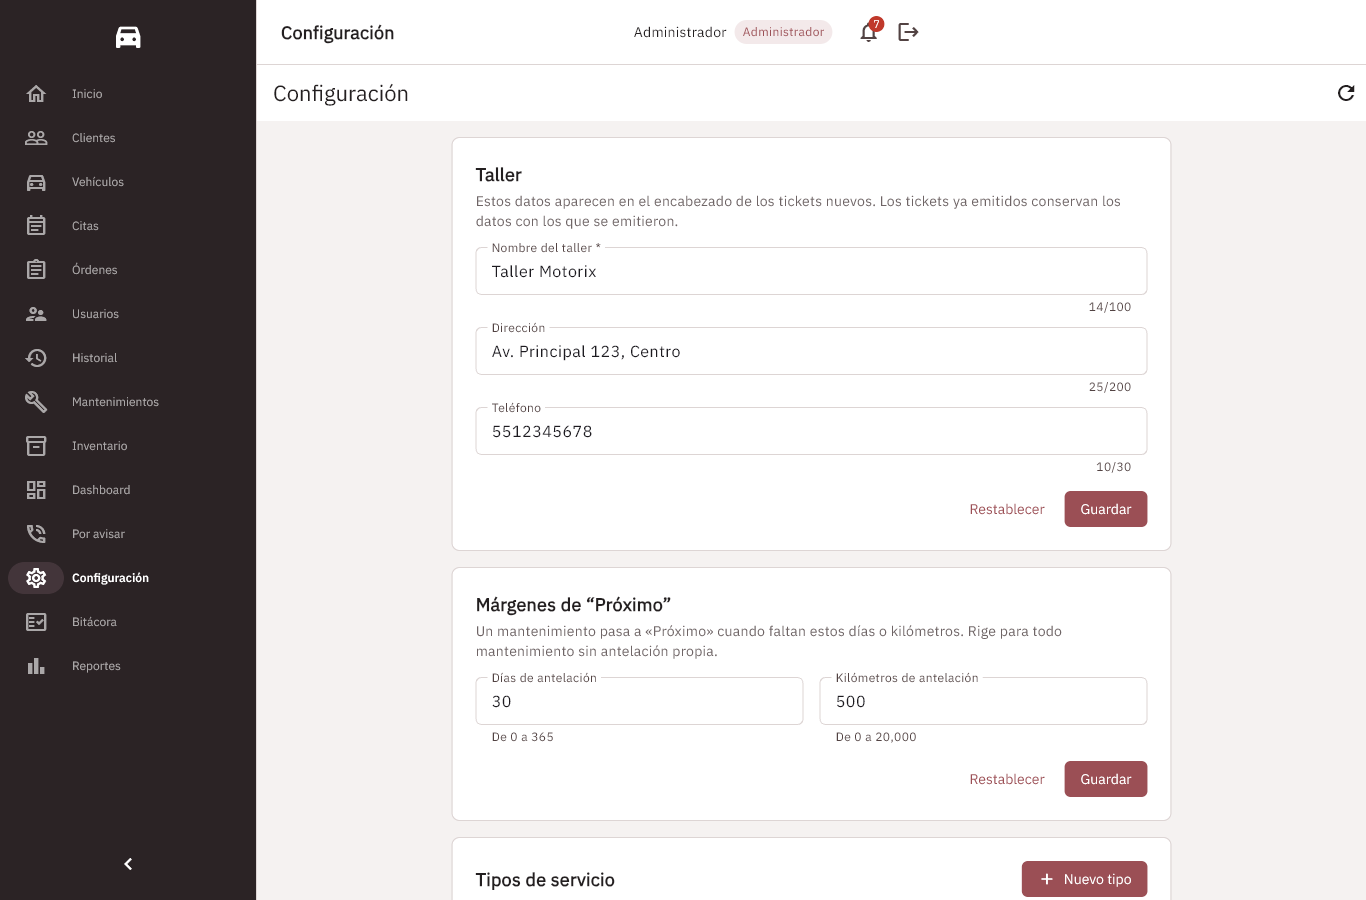
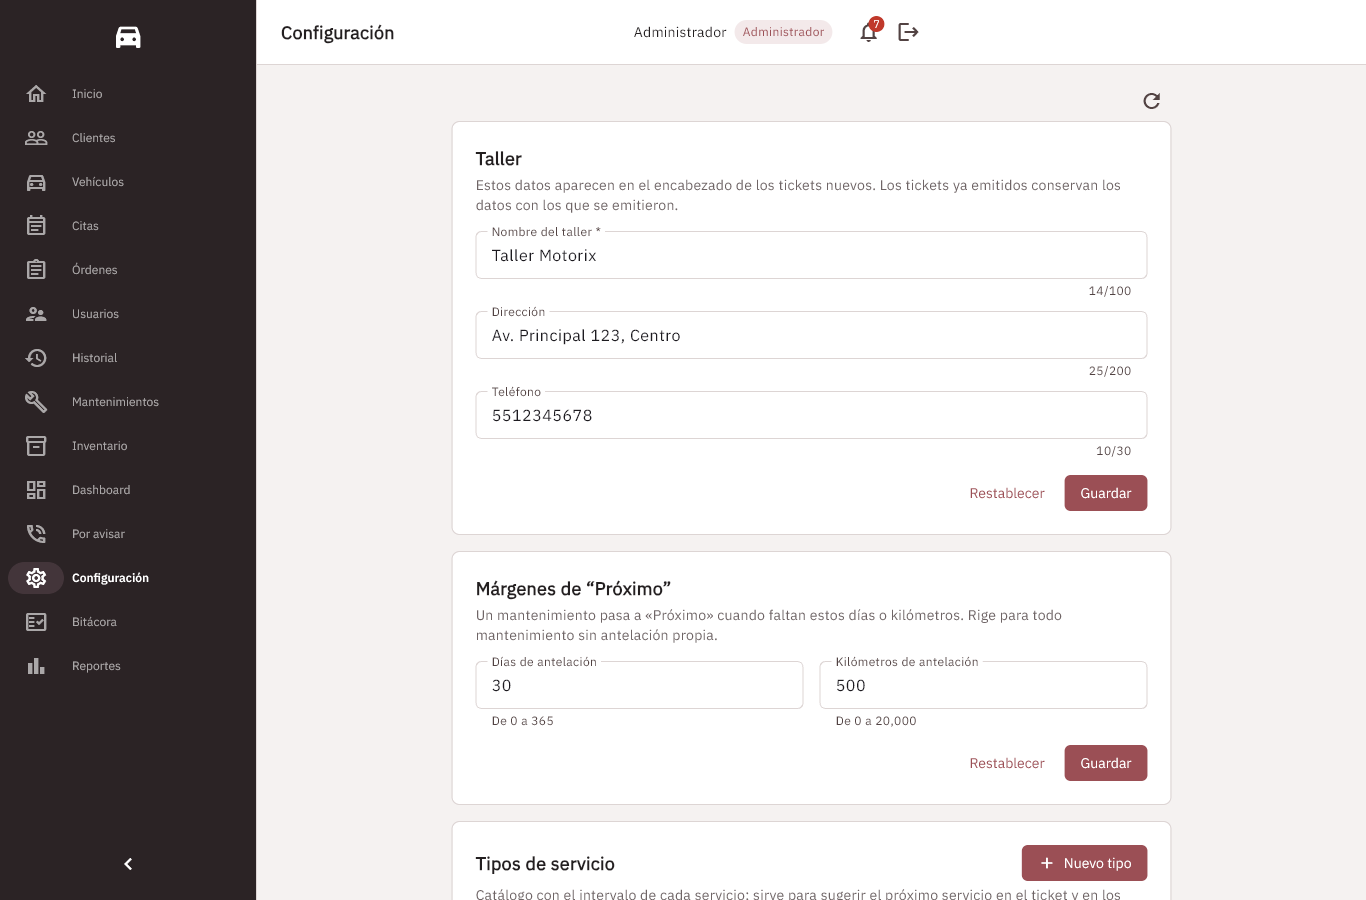
fix(ui): quitar títulos repetidos y mostrar fechas y bitácora legibles

diff --git a/client/test/readable_labels_test.dart b/client/test/readable_labels_test.dart
@@ -1,0 +1,74 @@
+import 'package:flutter_test/flutter_test.dart';
+
+import 'package:motorix_client/models/audit_entry.dart';
+import 'package:motorix_client/utils/date_format.dart';
+
+// Hallazgo H-05 del Sprint 7: la interfaz muestra fechas legibles y la bitácora
+// no expone claves técnicas.
+
+AuditEntry _entrada(String? detalle) => AuditEntry.fromJson({
+      'id': 1,
+      'createdAt': '2026-11-25T09:58:17',
+      'userId': 1,
+      'actor': 'admin',
+      'action': 'SETTINGS_UPDATED',
+      'detail': detalle,
+    });
+
+void main() {
+  group('fechaHoraLegible', () {
+    test('convierte una fecha ISO a dd/mm/aaaa hh:mm', () {
+      expect(fechaHoraLegible('2026-11-25T09:58:17'), '25/11/2026 09:58');
+      expect(fechaHoraLegible('2026-01-02 23:05:00'), '02/01/2026 23:05');
+    });
+
+    test('devuelve vacío con null y no altera un texto que no es fecha', () {
+      expect(fechaHoraLegible(null), '');
+      expect(fechaHoraLegible(''), '');
+      expect(fechaHoraLegible('sin fecha registrada'), 'sin fecha registrada');
+    });
+  });
+
+  group('AuditEntry.detalleLegible', () {
+    test('traduce las claves de la configuración y conserva los valores', () {
+      expect(
+        _entrada('campo: shop.name; anterior: Taller Motorix; nuevo: Taller Evidencia')
+            .detalleLegible,
+        'campo: Nombre del taller; anterior: Taller Motorix; nuevo: Taller Evidencia',
+      );
+      expect(
+        _entrada('campo: maintenance.warn_km; anterior: 500; nuevo: 800').detalleLegible,
+        'campo: Kilómetros de antelación; anterior: 500; nuevo: 800',
+      );
+    });
+
+    test('traduce el cambio de rol, el rol de un alta y el método de pago', () {
+      expect(
+        _entrada('campo: role; anterior: MECHANIC; nuevo: ADMIN').detalleLegible,
+        'campo: Rol; anterior: Mecánico; nuevo: Administrador',
+      );
+      expect(_entrada('rol: RECEPTIONIST').detalleLegible, 'rol: Recepción');
+      expect(
+        _entrada('orden: 5; método: MERCADO_PAGO; importe: 100.00').detalleLegible,
+        'orden: 5; método: Mercado Pago; importe: 100.00',
+      );
+    });
+
+    test('no traduce valores escritos por una persona que parecen una clave', () {
+      expect(
+        _entrada('campo: shop.name; anterior: ADMIN; nuevo: role').detalleLegible,
+        'campo: Nombre del taller; anterior: ADMIN; nuevo: role',
+      );
+    });
+
+    test('un detalle vacío o desconocido se muestra tal cual', () {
+      expect(_entrada(null).detalleLegible, '');
+      expect(_entrada('usuario: mecanico').detalleLegible, 'usuario: mecanico');
+      expect(_entrada('algo sin formato').detalleLegible, 'algo sin formato');
+    });
+
+    test('la fecha del registro usa el mismo formato', () {
+      expect(_entrada(null).fechaLegible, '25/11/2026 09:58');
+    });
+  });
+}

diff --git a/client/lib/models/audit_entry.dart b/client/lib/models/audit_entry.dart
@@ -1,3 +1,6 @@
+import '../utils/date_format.dart';
+import 'report_result.dart' show etiquetaMetodoDePago;
+
 /// Registro de la bitácora de acciones sensibles (Sprint 7, US10,
 /// contracts/audit-log.md). Solo lectura: nada se edita ni se borra.
 class AuditEntry {
@@ -33,11 +36,53 @@ class AuditEntry {
       );
 
   /// Fecha y hora legibles: `dd/mm/aaaa hh:mm`.
-  String get fechaLegible {
-    final texto = createdAt;
-    if (texto == null || texto.length < 16) return texto ?? '';
-    return '${texto.substring(8, 10)}/${texto.substring(5, 7)}/${texto.substring(0, 4)} ${texto.substring(11, 16)}';
+  String get fechaLegible => fechaHoraLegible(createdAt);
+
+  /// Detalle para la persona: traduce las claves técnicas del campo, los roles y
+  /// el método de pago. El registro guardado no cambia; los valores que
+  /// escribió una persona (nombres, motivos) se muestran tal cual.
+  String get detalleLegible {
+    final texto = detail;
+    if (texto == null || texto.isEmpty) return '';
+    final partes = texto.split('; ');
+    final campo = partes.first.startsWith('campo: ')
+        ? partes.first.substring('campo: '.length)
+        : null;
+
+    String traducir(String parte) {
+      final separador = parte.indexOf(': ');
+      if (separador < 0) return parte;
+      final etiqueta = parte.substring(0, separador);
+      var valor = parte.substring(separador + 2);
+      if (etiqueta == 'campo') {
+        valor = _campos[valor] ?? valor;
+      } else if (etiqueta == 'rol' ||
+          (campo == 'role' && (etiqueta == 'anterior' || etiqueta == 'nuevo'))) {
+        valor = _roles[valor] ?? valor;
+      } else if (etiqueta == 'método') {
+        valor = etiquetaMetodoDePago(valor);
+      }
+      return '$etiqueta: $valor';
+    }
+
+    return partes.map(traducir).join('; ');
   }
+
+  static const Map<String, String> _campos = {
+    'shop.name': 'Nombre del taller',
+    'shop.address': 'Dirección del taller',
+    'shop.phone': 'Teléfono del taller',
+    'maintenance.warn_days': 'Días de antelación',
+    'maintenance.warn_km': 'Kilómetros de antelación',
+    'role': 'Rol',
+    'active': 'Estado',
+  };
+
+  static const Map<String, String> _roles = {
+    'ADMIN': 'Administrador',
+    'RECEPTIONIST': 'Recepción',
+    'MECHANIC': 'Mecánico',
+  };
 
   /// Etiqueta en español de la acción (catálogo cerrado del contrato).
   String get etiquetaAccion => etiquetasDeAccion[action] ?? action;

diff --git a/client/lib/screens/audit/audit_log_screen.dart b/client/lib/screens/audit/audit_log_screen.dart
@@ -75,18 +75,6 @@ class _AuditLogScreenState extends State<AuditLogScreen> {
 
     return Scaffold(
       backgroundColor: AppColors.background,
-      appBar: AppBar(
-        title: const Text('Bitácora'),
-        actions: [
-          IconButton(
-            tooltip: 'Actualizar',
-            icon: const Icon(Icons.refresh),
-            onPressed: proveedor.cargando
-                ? null
-                : () => proveedor.cargar(page: proveedor.pagina?.page ?? 1),
-          ),
-        ],
-      ),
       body: Padding(
         padding: const EdgeInsets.all(AppSpacing.lg),
         child: Column(
@@ -179,6 +167,13 @@ class _AuditLogScreenState extends State<AuditLogScreen> {
                   onPressed: proveedor.cargando ? null : _limpiar,
                   child: const Text('Limpiar'),
                 ),
+                IconButton(
+                  tooltip: 'Actualizar',
+                  icon: const Icon(Icons.refresh),
+                  onPressed: proveedor.cargando
+                      ? null
+                      : () => proveedor.cargar(page: proveedor.pagina?.page ?? 1),
+                ),
               ],
             ),
             if (proveedor.errorFiltros != null) ...[
@@ -268,9 +263,9 @@ class _AuditLogScreenState extends State<AuditLogScreen> {
       title: Text(entrada.etiquetaAccion),
       subtitle: Text(
         '${entrada.fechaLegible} · ${entrada.actor} · ${entrada.etiquetaEntidad}'
-        '${entrada.detail == null || entrada.detail!.isEmpty ? '' : '\n${entrada.detail}'}',
+        '${entrada.detalleLegible.isEmpty ? '' : '\n${entrada.detalleLegible}'}',
       ),
-      isThreeLine: entrada.detail != null && entrada.detail!.isNotEmpty,
+      isThreeLine: entrada.detalleLegible.isNotEmpty,
     );
   }
 }

diff --git a/client/lib/screens/reports/reports_screen.dart b/client/lib/screens/reports/reports_screen.dart
@@ -72,24 +72,24 @@ class _ReportsScreenState extends State<ReportsScreen> {
       length: 5,
       child: Scaffold(
         backgroundColor: AppColors.background,
-        appBar: AppBar(
-          title: const Text('Reportes'),
-          bottom: const TabBar(
-            isScrollable: true,
-            tabs: [
-              Tab(text: 'Ingresos'),
-              Tab(text: 'Servicios'),
-              Tab(text: 'Productividad'),
-              Tab(text: 'Margen de refacciones'),
-              Tab(text: 'Rotación'),
-            ],
-          ),
-        ),
         body: Padding(
           padding: const EdgeInsets.all(AppSpacing.lg),
           child: Column(
             crossAxisAlignment: CrossAxisAlignment.stretch,
             children: [
+              // El título de la sección ya está en la cabecera del menú.
+              const TabBar(
+                isScrollable: true,
+                tabAlignment: TabAlignment.start,
+                tabs: [
+                  Tab(text: 'Ingresos'),
+                  Tab(text: 'Servicios'),
+                  Tab(text: 'Productividad'),
+                  Tab(text: 'Margen de refacciones'),
+                  Tab(text: 'Rotación'),
+                ],
+              ),
+              const SizedBox(height: AppSpacing.md),
               _selectorPeriodo(proveedor),
               const SizedBox(height: AppSpacing.md),
               const Expanded(

diff --git a/client/lib/screens/settings/settings_screen.dart b/client/lib/screens/settings/settings_screen.dart
@@ -64,16 +64,6 @@ class _SettingsScreenState extends State<SettingsScreen> {
       },
       child: Scaffold(
         backgroundColor: AppColors.background,
-        appBar: AppBar(
-          title: const Text('Configuración'),
-          actions: [
-            IconButton(
-              tooltip: 'Actualizar',
-              icon: const Icon(Icons.refresh),
-              onPressed: proveedor.cargando ? null : proveedor.cargar,
-            ),
-          ],
-        ),
         body: _cuerpo(proveedor),
       ),
     );
@@ -99,6 +89,15 @@ class _SettingsScreenState extends State<SettingsScreen> {
           child: Column(
             crossAxisAlignment: CrossAxisAlignment.stretch,
             children: [
+              // El título de la sección ya está en la cabecera del menú.
+              Align(
+                alignment: Alignment.centerRight,
+                child: IconButton(
+                  tooltip: 'Actualizar',
+                  icon: const Icon(Icons.refresh),
+                  onPressed: proveedor.cargando ? null : proveedor.cargar,
+                ),
+              ),
               FormularioTaller(
                 key: ValueKey(
                   '${config.shop.name}|${config.shop.address}|${config.shop.phone}',

diff --git a/client/lib/screens/tickets/ticket_screen.dart b/client/lib/screens/tickets/ticket_screen.dart
@@ -7,6 +7,7 @@ import 'package:provider/provider.dart';
 import '../../models/ticket.dart';
 import '../../providers/payments_provider.dart';
 import '../../utils/app_theme.dart';
+import '../../utils/date_format.dart';
 import '../../widgets/estado_pago_chip.dart';
 import '../../widgets/states_view.dart';
 
@@ -116,7 +117,7 @@ class _TicketScreenState extends State<TicketScreen> {
             const SizedBox(height: AppSpacing.xs),
             Center(
               child: Text(
-                ticket.createdAt ?? '',
+                fechaHoraLegible(ticket.createdAt),
                 style: const TextStyle(
                   fontSize: 12,
                   color: AppColors.textSecondary,
@@ -365,7 +366,7 @@ class _TicketScreenState extends State<TicketScreen> {
       pw.Center(child: pw.Text(ticket.folio)),
       pw.Center(child: pw.Text(ticket.workshop.name)),
       pw.SizedBox(height: 8),
-      pw.Text(ticket.createdAt ?? ''),
+      pw.Text(fechaHoraLegible(ticket.createdAt)),
       titulo('Cliente'),
       linea(ticket.client.name, ticket.client.phone ?? ''),
       titulo('Vehículo'),

diff --git a/client/lib/screens/settings/terms_section.dart b/client/lib/screens/settings/terms_section.dart
@@ -4,6 +4,7 @@ import 'package:provider/provider.dart';
 import '../../models/terms.dart';
 import '../../providers/terms_provider.dart';
 import '../../utils/app_theme.dart';
+import '../../utils/date_format.dart';
 import '../../widgets/confirm_dialog.dart';
 import '../../widgets/states_view.dart';
 
@@ -226,7 +227,9 @@ class _TermsSectionState extends State<TermsSection> {
               contentPadding: EdgeInsets.zero,
               leading: const Icon(Icons.check_circle_outline, color: AppColors.success),
               title: Text(item.name),
-              subtitle: Text('${item.username} · ${item.acceptedAt ?? ''}'),
+              subtitle: Text(
+                '${item.username} · ${fechaHoraLegible(item.acceptedAt)}',
+              ),
             ),
         if (pagina.totalPaginas > 1)
           Row(

diff --git a/client/lib/utils/date_format.dart b/client/lib/utils/date_format.dart
@@ -1,0 +1,9 @@
+/// Fecha y hora legibles para la interfaz: `2026-11-25T09:58:17` se muestra como
+/// `25/11/2026 09:58`. Los textos que no tengan ese formato se devuelven tal
+/// cual y `null` como cadena vacía.
+String fechaHoraLegible(String? iso) {
+  if (iso == null) return '';
+  if (!RegExp(r'^\d{4}-\d{2}-\d{2}[T ]\d{2}:\d{2}').hasMatch(iso)) return iso;
+  return '${iso.substring(8, 10)}/${iso.substring(5, 7)}/${iso.substring(0, 4)} '
+      '${iso.substring(11, 16)}';
+}
